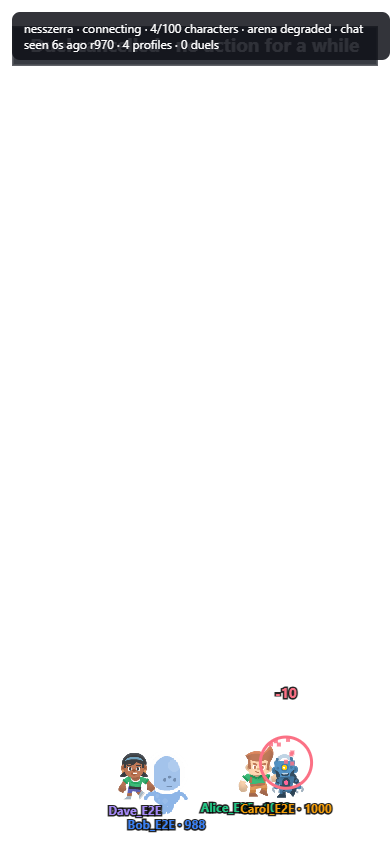
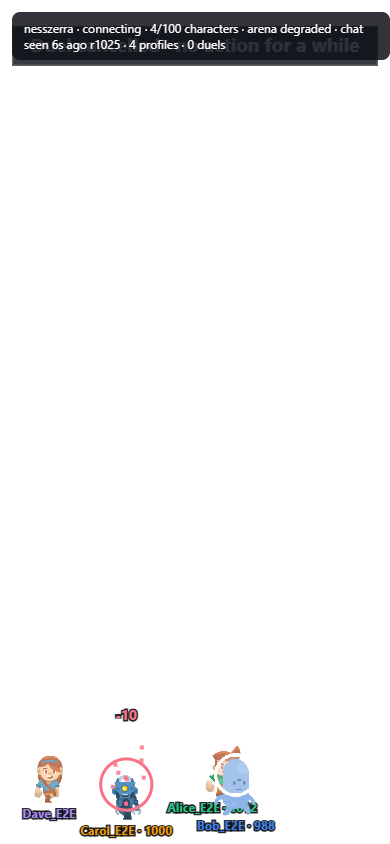
Quick duels roll a d6 per swing: hit lands, counter or miss

diff --git a/server/game.js b/server/game.js
@@ -1,6 +1,6 @@
 const DEFAULT_CONFIG = {
   enabled: true,
-  // Quick duels: accepting settles the duel at once with one knockout hit, winner picked 50/50.
+  // Quick duels: accepting settles the duel at once with a d6 exchange (hit, counter or miss).
   // Off = the HP fight with !attack/!strike/!heavy/!heal.
   quickDuel: true,
   maxHp: 100,
@@ -327,18 +327,36 @@ function beginDuel(state, duel, now) {
   return { ok: true, duelId: duel.id };
 }
 
-// Quick duel: one knockout hit right after the duel starts. roll in [0, 1) comes from the room; < 0.5 means a wins.
-function settleQuickDuel(state, duel, roll, now) {
-  const r = Number.isFinite(roll) && roll >= 0 && roll < 1 ? roll : hashRoll(duel.id + ":" + now);
-  const winnerId = r < 0.5 ? duel.a : duel.b;
-  const loserId = winnerId === duel.a ? duel.b : duel.a;
-  const amount = duel.hp[loserId];
-  duel.hp[loserId] = 0;
-  const loser = player(state, loserId);
-  if (loser) loser.hp = 0;
-  addEvent(state, "duel_action", now, { duelId: duel.id, userId: winnerId, targetId: loserId, ability: "heavy", amount, hp: clone(duel.hp), finisher: true });
+// Quick duel: a d6 exchange settled at once. The swinging fighter rolls: 5-6 the hit lands (KO),
+// 1-2 the other fighter counters (KO the other way), 3-4 the swing misses and the other fighter swings next.
+// The challenger swings first; hit and counter are equally likely, so who starts doesn't matter.
+// rolls are numbers in [0, 1) from the room; missing ones come from a hash so the reducer stays pure.
+const QUICK_MAX_SWINGS = 8;
+function settleQuickDuel(state, duel, rolls, now) {
+  const list = Array.isArray(rolls) ? rolls : [];
+  const rollAt = (i) => (Number.isFinite(list[i]) && list[i] >= 0 && list[i] < 1 ? list[i] : hashRoll(duel.id + ":" + now + ":" + i));
+  const swings = [];
+  let attacker = duel.a, defender = duel.b, winnerId = "", loserId = "";
+  for (let i = 0; !winnerId; i++) {
+    let die = 1 + Math.floor(rollAt(i) * 6);
+    if (i === QUICK_MAX_SWINGS - 1 && (die === 3 || die === 4)) die = die === 3 ? 2 : 5;   // the last swing always decides
+    const outcome = die >= 5 ? "hit" : die <= 2 ? "counter" : "miss";
+    swings.push({ attackerId: attacker, defenderId: defender, die, outcome });
+    if (outcome === "miss") {
+      addEvent(state, "duel_action", now, { duelId: duel.id, userId: attacker, targetId: defender, ability: "strike", amount: 0, hp: clone(duel.hp), miss: true, die });
+      [attacker, defender] = [defender, attacker];
+      continue;
+    }
+    winnerId = outcome === "hit" ? attacker : defender;
+    loserId = outcome === "hit" ? defender : attacker;
+    const amount = duel.hp[loserId];
+    duel.hp[loserId] = 0;
+    const loser = player(state, loserId);
+    if (loser) loser.hp = 0;
+    addEvent(state, "duel_action", now, { duelId: duel.id, userId: winnerId, targetId: loserId, ability: "heavy", amount, hp: clone(duel.hp), finisher: true, counter: outcome === "counter", die });
+  }
   finishDuel(state, duel, winnerId, now);
-  return { ok: true, reason: "quick_duel", duelId: duel.id, winnerId, loserId };
+  return { ok: true, reason: "quick_duel", duelId: duel.id, winnerId, loserId, swings };
 }
 
 function hashRoll(text) {
@@ -450,7 +468,7 @@ function applyCommand(state, event, now) {
     const mutual = openDuels(state).find((item) => item.status === "pending" && item.a === target.userId && item.b === actor.userId);
     if (mutual) {
       const started = beginDuel(state, mutual, now);
-      if (started.ok && state.config.quickDuel) return settleQuickDuel(state, mutual, event.roll, now);
+      if (started.ok && state.config.quickDuel) return settleQuickDuel(state, mutual, event.rolls, now);
       return started.ok ? { ...started, reason: "duel_started" } : started;
     }
     return createChallenge(state, actor, target, now);
@@ -472,7 +490,7 @@ function applyCommand(state, event, now) {
       return { ok: true, reason: "challenge_declined", duelId: duel.id };
     }
     const started = beginDuel(state, duel, now);
-    if (started.ok && state.config.quickDuel) return settleQuickDuel(state, duel, event.roll, now);
+    if (started.ok && state.config.quickDuel) return settleQuickDuel(state, duel, event.rolls, now);
     return started;
   }
 

diff --git a/server/streamelements.js b/server/streamelements.js
@@ -62,7 +62,10 @@ export function seReplyText({ result, state, actorId, action, target, names = {}
     const other = duel ? (duel.a === actorId ? duel.b : duel.a) : '';
     if (reason === 'quick_duel') {
       const w = state.players.find(p => p.userId === result.winnerId), l = state.players.find(p => p.userId === result.loserId);
-      return `${nameOf(state, result.winnerId)} knocks out ${nameOf(state, result.loserId)} in one hit and wins.` + (w && l ? ` Elo: ${nameOf(state, result.winnerId)} ${w.elo}, ${nameOf(state, result.loserId)} ${l.elo}.` : '');
+      const said = { hit: 'hit lands', counter: 'countered', miss: 'miss' };
+      const swings = (result.swings || []).map(s => `${nameOf(state, s.attackerId)} rolls ${s.die}: ${said[s.outcome]}.`).join(' ');
+      const end = ` ${nameOf(state, result.winnerId)} knocks out ${nameOf(state, result.loserId)}!` + (w && l ? ` Elo: ${nameOf(state, result.winnerId)} ${w.elo}, ${nameOf(state, result.loserId)} ${l.elo}.` : '');
+      return (swings.length > 220 ? swings.slice(0, 217) + '...' : swings) + end;
     }
     if (action === 'accept' || reason === 'duel_started') return `Duel on: ${nameOf(state, duel?.a)} vs ${nameOf(state, duel?.b)}. Use ${n('attack')}, ${n('strike')}, ${n('heavy')} or ${n('heal')}.`;
     if (action === 'challenge') return `${me} challenges @${target} to a duel. @${target}, type ${n('accept')} (or ${n('challenge')} @${me}) or ${n('decline')} within ${secs(state.config.challengeTimeoutMs || 30000)} s.`;

diff --git a/server/channel.js b/server/channel.js
@@ -562,7 +562,7 @@ export class ChannelRoom extends DurableObject {
         const parsed = parseGameCommand(textValue);
         if (parsed) {
           const targetProfile = parsed.target ? this.getProfileByUsername(parsed.target, state.config) : null;
-          main = step({ type: "command", messageId: String(ev.message_id || msg.messageId).slice(0, 64), userId, username, displayName, text: textValue, timestamp: Number(msg.timestamp), profile, targetProfile, roll: Math.random() });
+          main = step({ type: "command", messageId: String(ev.message_id || msg.messageId).slice(0, 64), userId, username, displayName, text: textValue, timestamp: Number(msg.timestamp), profile, targetProfile, rolls: Array.from({ length: 8 }, () => Math.random()) });
           if (!main.result.ok && main.result.reason !== "duplicate") step({ type: "command_rejected", userId, command: parsed.action, reason: main.result.reason, retryAt: main.result.retryAt });
         } else {
           const active = state.players.find((item) => item.userId === userId);

diff --git a/public/overlay.js b/public/overlay.js
@@ -270,8 +270,9 @@ async function start() {
         } else {
           if (actor) actor.anim = { kind: 'attack', heavy: event.ability === 'heavy', start: now, until: now + 450 };
           if (target) target.anim = { kind: 'hit', heavy: event.ability === 'heavy', start: now + 120, until: now + 520 };
+          if (event.miss) { if (target) { target.anim = null; hop(target, 180); } floatText(target, 'MISS', '#e2e8f0'); break; }
           burst(target, event.ability === 'heavy' ? '#f97316' : '#fb7185', event.ability === 'heavy' ? 16 : 8, false);
-          floatText(target, '-' + (Number(event.amount) || 0), '#fb7185');
+          floatText(target, event.counter ? 'COUNTER' : '-' + (Number(event.amount) || 0), '#fb7185');
         }
         break;
       }
